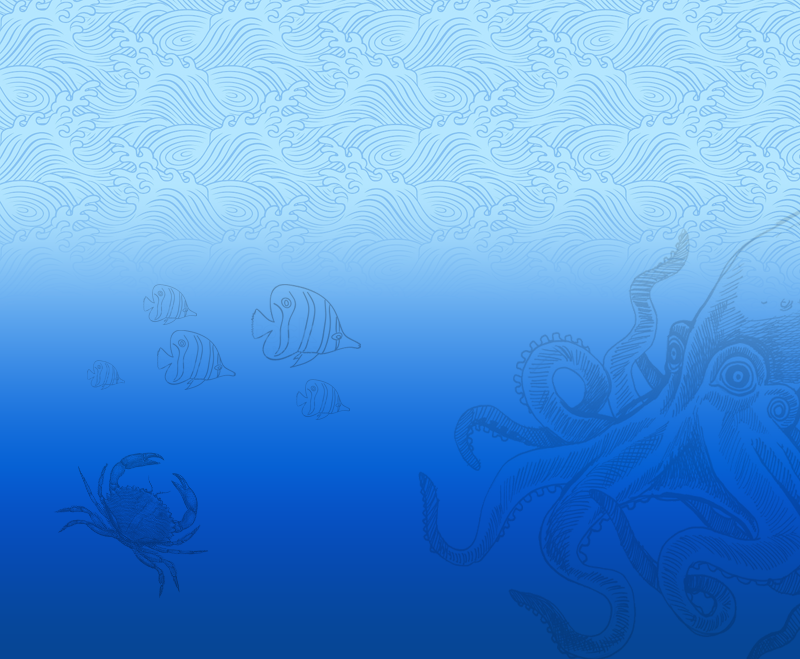
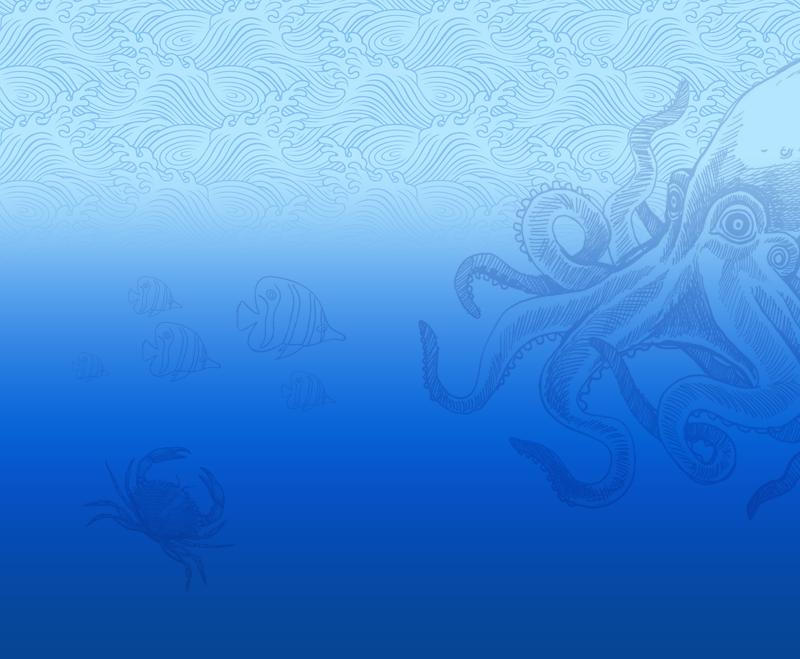
modified background and changed button colors

diff --git a/assets/css/style.css b/assets/css/style.css
@@ -6,6 +6,7 @@ body {
 }
 #buttonwrap {
     padding: 5% 0 1%;
+ 
 }
 button {
     margin: 10px;
@@ -13,8 +14,8 @@ button {
     font-size: 20px;
 }
 .btn-primary {
-    background-color: rgba(255,255,255, .65);
-    color: #007bff;
+    background-color: rgba(4,101,218, .65);
+    color: #fff;
     padding: 10px 30px;
 }
 form {
@@ -38,7 +39,6 @@ label {
 /* holds all gif in their wraps*/
 #gifwrap {
     text-align: center;
-   
     width: 65%;
     margin: 5% auto;
 }
@@ -48,13 +48,14 @@ label {
     float: left;
     text-align: center;
     margin: 10px;
-
+    
 }
 .gif {
     height: 200px;
     width: 200px;
     border-radius:100%;
     border: 1px solid #fff;
+
 }
 .gWrap p {
     color:#fff;

diff --git a/index.html b/index.html
@@ -25,7 +25,7 @@
         <span id="alert"></span>
         <form>
             <div class="form-group">
-              <label for="search">Input a sea creature</label>
+              <label for="search">add a sea creature</label>
               <input type="text" class="form-control" id="search">
             </div>
             <button id="submit" type="submit" class="btn btn-primary">Submit</button>
